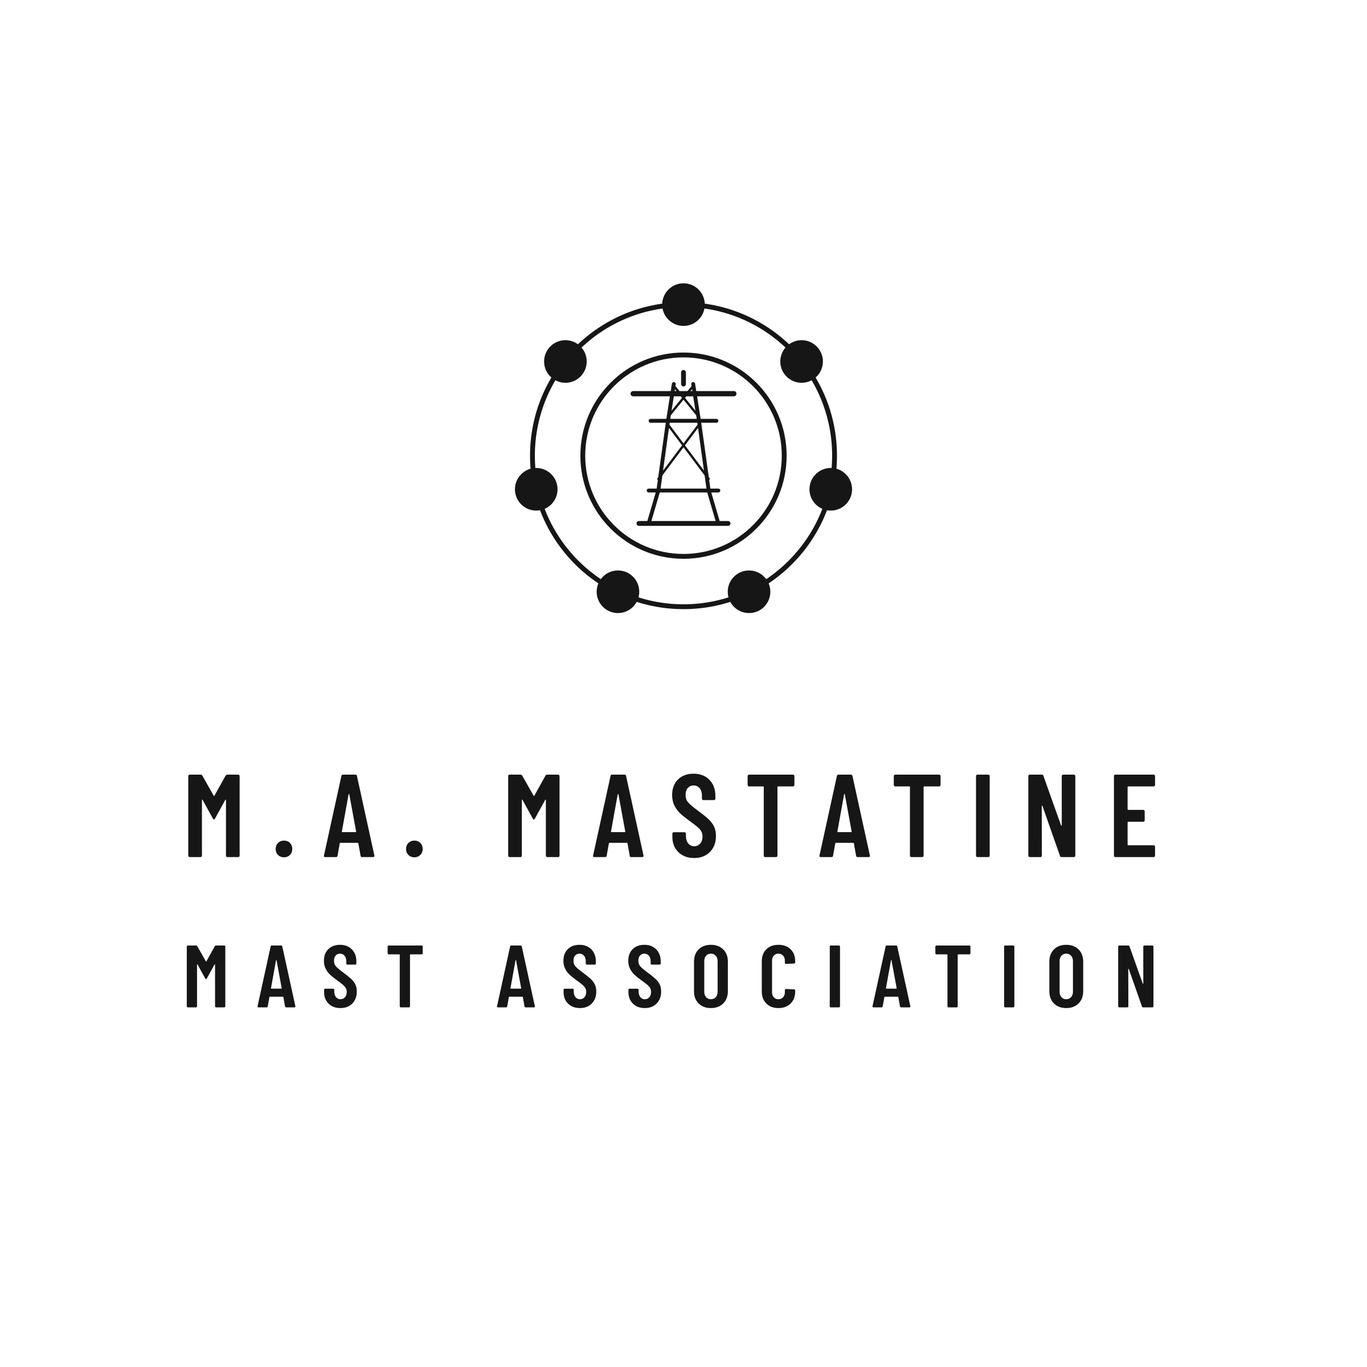
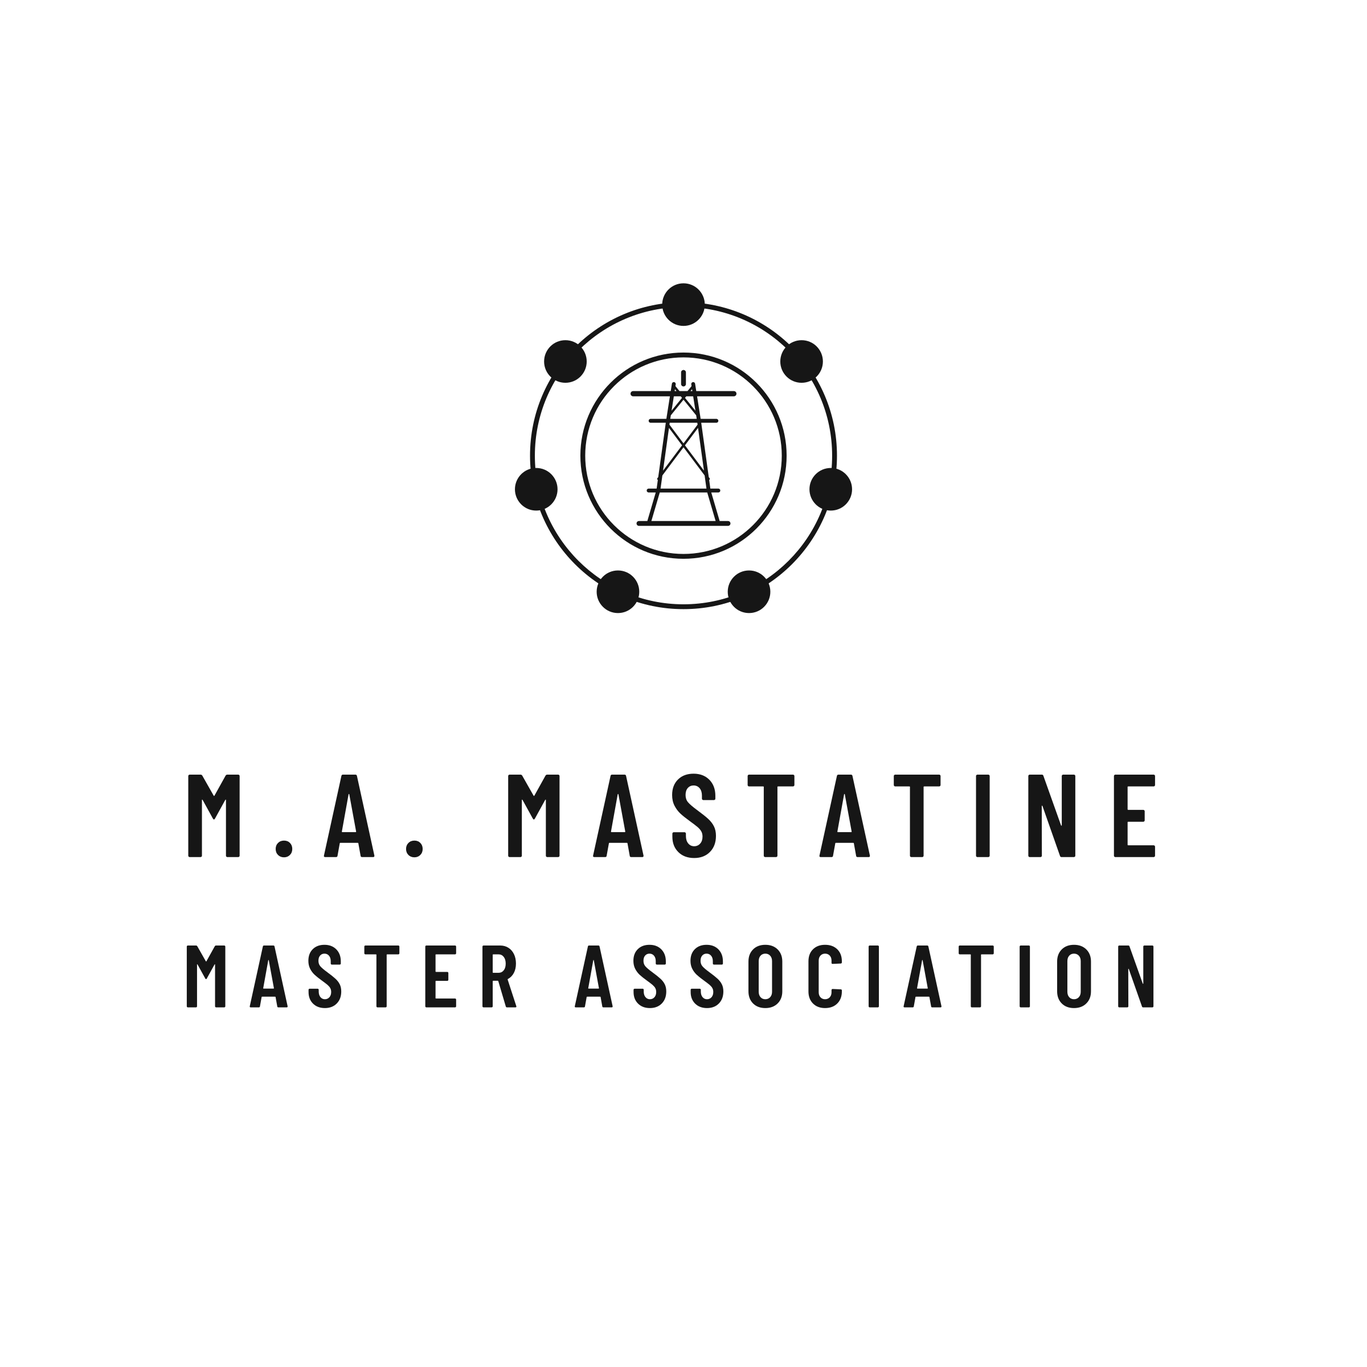
feat: Master Association rebrand of copy, history and wearable artwork
Updates the brand guide, site copy and history, pages, navigation styling, wearable artwork and the masts page.

Changed region(s): [[0.1875, 0.6875, 0.8125, 0.75]]

diff --git a/src/app/(pages)/about/page.tsx b/src/app/(pages)/about/page.tsx
@@ -5,7 +5,7 @@ import { ASTATINE_URL } from "@/content/site";
 
 export const metadata: Metadata = {
   title: "About & disclaimer",
-  description: "What M.A. Mastatine is, and what it is not: a parody, not affiliated with S.A. Astatine or the University of Twente.",
+  description: "About M.A. Mastatine, the Master Association in Maastricht for masts, towers and pylons: who we are, how it works and how to take part.",
 };
 
 export const instant = false;
@@ -15,44 +15,17 @@ export default function AboutPage() {
     <>
       <PageHeader
         title="An association for things that are tall"
-        intro="Mastatine is a joke that got out of hand. We collect masts, towers and pylons, and we let people vote on them."
+        intro="Founded in Maastricht in 2006, M.A. Mastatine brings students together around masts, towers and pylons."
       />
 
       <div className="container-prose prose-lite">
-        <h2>What is Mastatine?</h2>
+        <h2>Who we are</h2>
         <p>
-          The name is a pun: a <em>mast</em> plus an <em>-atine</em> ending, in the style of the chemical elements. That is where the
-          resemblance to any real organisation ends. We have no programme and no curriculum. We have a gallery of masts, a
-          leaderboard, a Mast of the Month, a free (and entirely optional) membership, activities, a newsletter and a Minecraft
-          server. We were released during our 4th lustrum, and our first activity takes place on 12 November.
+          Mastatine started in 2006 in a rented room in Wyck, where a few students could not stop arguing about the transmission mast
+          outside their window. The name combines <em>mast</em> with an <em>-atine</em> ending, in the style of the chemical elements.
+          Twenty years on we keep a register of masts, a leaderboard, a Mast of the Month, activities, a newsletter and a Minecraft
+          server. Membership is free and open to every student in Maastricht. Read the full <Link href="/history">history</Link>.
         </p>
-
-        <section id="disclaimer" className="card not-prose scroll-mt-28 !border-accent/40 p-6 sm:p-8" aria-labelledby="disclaimer-title">
-          <h2 id="disclaimer-title" className="!mt-0 text-2xl font-bold">
-            Disclaimer: we are a parody
-          </h2>
-          <ul className="mt-4 list-disc space-y-2.5 pl-5 text-base">
-            <li>
-              <strong>M.A. Mastatine is not affiliated with, endorsed by or connected to S.A. Astatine</strong>, the study association of
-              the University of Twente, or to the University of Twente itself.
-            </li>
-            <li>We are not a study association. Nothing here grants study credits, discounts or any academic standing.</li>
-            <li>
-              Our name is a pun. Our logo and layout are our own and are not taken from anyone else. The one thing we borrow is the
-              lettering: our stickers and merch are set in the Astatine typeface, made for S.A. Astatine, which we use with their permission.
-            </li>
-            <li>We do not use, copy or display the real association’s data, calendar, logo or content.</li>
-            <li>Statements on this site are satire. Please do not mistake them for statements of fact, or of anyone else.</li>
-          </ul>
-          <p className="mt-5 text-sm text-muted">
-            Looking for the real study association? Visit{" "}
-            <a className="font-semibold text-accent-text underline underline-offset-2" href={ASTATINE_URL} target="_blank" rel="noopener noreferrer">
-              astatine.utwente.nl
-            </a>
-            . If you represent them and have any concern about this site, please <Link className="font-semibold text-accent-text underline underline-offset-2" href="/contact">contact us</Link>{" "}
-            and we will respond promptly.
-          </p>
-        </section>
 
         <h2>How it works</h2>
         <ul>
@@ -82,6 +55,14 @@ export default function AboutPage() {
         <p>
           Submissions are filtered for offensive language, and admins can edit or remove anything. If a photo shows you, or something
           that should not be public, tell us and we will take it down.
+        </p>
+
+        <p id="disclaimer" className="scroll-mt-28 text-xs text-muted">
+          M.A. Mastatine is an independent student initiative and is not affiliated with, endorsed by or connected to Universiteit
+          Maastricht or to S.A. Astatine (University of Twente,{" "}
+          <a className="underline underline-offset-2" href={ASTATINE_URL} target="_blank" rel="noopener noreferrer">astatine.utwente.nl</a>
+          ). Our stickers and merch are set in the Astatine typeface, used with their permission. Some content on this site is
+          humorous and fictional. Concerns? <Link className="underline underline-offset-2" href="/contact">Contact us</Link>.
         </p>
       </div>
     </>

diff --git a/src/content/site.ts b/src/content/site.ts
@@ -1,7 +1,6 @@
 /**
- * Editorial content for the static pages. Everything here is parody copy written as a starting
- * point: edit freely. Facts marked PLACEHOLDER (dates, roles) are invented for comedic effect and
- * should be replaced with the truth. No real people are named on purpose.
+ * Editorial content for the static pages. The history and roles are fictional starting copy:
+ * edit freely. No real people are named on purpose.
  */
 
 export const ASTATINE_URL = "https://astatine.utwente.nl";
@@ -25,24 +24,26 @@ export interface Milestone {
   text: string;
 }
 
-/** What we have actually done so far. */
+/** Our story so far. */
 export const HISTORY: Milestone[] = [
-  { year: "Before 2025", title: "Lost to history", text: "Everything before this was lost. Nobody wrote it down, because we were far too busy looking at masts. Any resemblance to earlier events is purely coincidental." },
-  { year: "2025–26", title: "Released during the 4th lustrum", text: "Mastatine is released into the world during the 4th lustrum, twenty years of masts, celebrated under the theme Masten." },
-  { year: "2026", title: "A new website and a Minecraft server", text: "Faster, clearer, with accounts, voting, a newsletter and a server at aaa.mastatine.nl. Still very much a joke." },
-  { year: "12 November 2026", title: "The first activity", text: "Our first activity takes place on the 12th of November." },
+  { year: "2006", title: "Founded in Wyck", text: "A handful of Maastricht students who kept debating the transmission mast visible from their rented room in Wyck, a short walk from the Maas, found the association. The first board meeting is held over a single plate of bitterballen." },
+  { year: "2011", title: "The first excursion", text: "For the 1st lustrum, the association takes its first field trip: an afternoon on the Sint Pietersberg, photographing the masts of the Maastricht skyline from the ground. The mast register, a shared photo album, is started that day." },
+  { year: "2016", title: "An international community", text: "As the student body grows more international, Mastatine switches its meetings and newsletter to English and welcomes members from well beyond the Netherlands." },
+  { year: "2021", title: "The register goes online", text: "The mast register moves from a shared folder to the website, with ratings, a Mast of the Month and a growing gallery of towers and pylons." },
+  { year: "2025–26", title: "The 4th lustrum", text: "Twenty years of Mastatine, celebrated under the theme Masten with a year of activities, a new website and a Minecraft server at aaa.mastatine.nl." },
+  { year: "12 November 2026", title: "First activity on the new platform", text: "Activities, sign-ups and the newsletter now all run from one place, starting with our activity on the 12th of November." },
 ];
 
 export const MEMBERSHIP_PERKS: { title: string; text: string }[] = [
   { title: "Vote and submit", text: "No account needed. Rate any mast up or down, or add your own with a photo." },
   { title: "A free account", text: "Sign in with your email, no password. Manage your details and your newsletter preference in one place." },
-  { title: "The quarterly newsletter", text: "About four emails a year: the best masts, the news, and the occasional bad pun." },
+  { title: "The quarterly newsletter", text: "About four emails a year: the best masts, the news and what is coming up." },
   { title: "Merch", text: "Wear the tallest opinions in the room. The shop is run by our print partner." },
 ];
 
 export const FAQ: { q: string; a: string }[] = [
-  { q: "Is this the real study association?", a: "No. M.A. Mastatine is a parody. The real association is S.A. Astatine of the University of Twente. We are not connected to them or to the university." },
-  { q: "Do I get study credits?", a: "No credits, no discounts and no academic standing of any kind. Only the admiration of fellow mast enthusiasts." },
+  { q: "Who can join?", a: "Any student in Maastricht, and anyone else with an interest in masts, towers and the built environment. Membership is open to all." },
+  { q: "Do I get study credits?", a: "No. Mastatine is a student association, not a course, so there are no credits, only a community and a good excuse to look up." },
   { q: "Does membership cost anything?", a: "No. Everything on this site is free." },
   { q: "Can I delete my account?", a: "Yes, from your account page, at any time. You can also unsubscribe from the newsletter with one click." },
 ];

diff --git a/src/classic/AppChrome.tsx b/src/classic/AppChrome.tsx
@@ -31,6 +31,12 @@ const YouIcon = (
   </svg>
 );
 
+const MastsIcon = (
+  <svg {...iconProps}>
+    <path d="M12 2v20M8 22h8M9 7h6M8 12h8M7 17h10" />
+  </svg>
+);
+
 interface Tab {
   label: string;
   href: string;
@@ -41,6 +47,7 @@ interface Tab {
 const TABS: Tab[] = [
   { label: "Today", href: TODAY_HREF, icon: TodayIcon, isCurrent: (p) => p === "/" || p === "/app" },
   { label: "Activities", href: "/mastapps/activities", icon: Icons.activities, isCurrent: (p) => under(p, "/mastapps/activities") },
+  { label: "Masts", href: "/masts", icon: MastsIcon, isCurrent: (p) => under(p, "/masts") },
   { label: "Apps", href: "/mastapps", icon: Icons.dashboard, isCurrent: (p) => (under(p, "/mastapps") && !under(p, "/mastapps/activities")) || under(p, "/admin") },
   { label: "You", href: "/account", icon: YouIcon, isCurrent: (p) => under(p, "/account") },
 ];
@@ -52,12 +59,13 @@ const SECTION_TITLES: [string, string][] = [
   ["/terms", "Site rules"], ["/newsletter", "Newsletter"], ["/login", "Sign in"], ["/welcome", "Welcome"],
 ];
 
-const ROOTS = new Set(["/", "/app", "/mastapps", "/mastapps/activities", "/account"]);
+const ROOTS = new Set(["/", "/app", "/masts", "/mastapps", "/mastapps/activities", "/account"]);
 
 /** The section the current page belongs to: the name in the top bar. Signed out, Today is just the way in. */
 function titleFor(pathname: string, signedIn: boolean): string {
   if (pathname === "/" || pathname === "/app") return signedIn ? "Today" : "M.A. Mastatine";
   if (under(pathname, "/mastapps/activities")) return "Activities";
+  if (under(pathname, "/masts")) return "Masts";
   if (pathname === "/mastapps") return "Apps";
   if (under(pathname, "/admin")) return "Admin";
   if (under(pathname, "/account")) return "You";
@@ -107,7 +115,7 @@ export function AppTopBar() {
   );
 }
 
-/** Bottom navigation bar: Today, Activities, Apps, You. Only for people who are signed in (the others have nothing to navigate). */
+/** Bottom navigation bar: Today, Activities, Masts, Apps, You. Only for people who are signed in (the others have nothing to navigate). */
 export function AppTabBar() {
   const pathname = usePathname();
   const { signedIn } = useAccountState();

diff --git a/src/app/(pages)/masts/page.tsx b/src/app/(pages)/masts/page.tsx
@@ -1,0 +1,41 @@
+import type { Metadata } from "next";
+import { describeDbError } from "@/lib/db";
+import { PAGE_SIZE, listTowers, parseQuery, type TowerPage } from "@/lib/towers";
+import TowerGrid from "@/classic/TowerGrid";
+import SubmitModal from "@/classic/SubmitModal";
+
+export const metadata: Metadata = { title: "Masts", description: "Browse and rate the finest masts." };
+
+export const instant = false;
+
+async function getFirstPage(q: string): Promise<TowerPage> {
+  try {
+    return await listTowers({ sort: "rating", q, offset: 0, limit: PAGE_SIZE });
+  } catch (error) {
+    console.error(`Failed to load towers: ${describeDbError(error)}`);
+    return { towers: [], hasMore: false };
+  }
+}
+
+/** The masts to browse and rate. The website shows them on its homepage; the installed app has no homepage, so they live here. */
+export default async function MastsPage(props: { searchParams?: Promise<{ [key: string]: string | string[] | undefined }> }) {
+  const q = parseQuery((await props.searchParams)?.s);
+  const firstPage = await getFirstPage(q);
+
+  return (
+    <section id="lp-posts">
+      <div className="lp-posts-inside">
+        <div id="towers" style={{ scrollMarginTop: "2rem" }} />
+        <TowerGrid initialPage={firstPage} initialQuery={q}>
+          <article className="post hentry news-card">
+            <div className="news-card__top">
+              <span className="news-card__label">Masts</span>
+            </div>
+            <p style={{ flex: 1, marginBottom: "0.5rem" }}>Rate the masts, or add one of your own.</p>
+            <SubmitModal />
+          </article>
+        </TowerGrid>
+      </div>
+    </section>
+  );
+}

diff --git a/src/app/page.tsx b/src/app/page.tsx
@@ -94,17 +94,16 @@ export default async function HomePage(
           <div className="lp-text-content">
             <h5 className="wp-block-heading has-text-align-center">
               <strong>
-                M.A. Mastatine is the mast association for students of Advanced Mastology
-                and Nanomastology, and co-association of Mastotics at the University of Maste.{" "}
+                M.A. Mastatine is the Master Association in Maastricht for students interested in masts, towers
+                and the infrastructure behind modern communication.{" "}
                 <span className="lp-more">
-                  We are an international, non-profit association that supports students (and staff)
-                  of Advanced Mastology, Nanomastology and Mastotics in building a community,
-                  creating personal development opportunities, and evaluating the curriculum. We do
-                  this through masting.
+                  We are an international, non-profit student association, founded in Wyck in 2006. We
+                  help students build a community, grow personally and professionally, and get to know
+                  the landscape around them, from the Sint Pietersberg to the Maas, one mast at a time.
                 </span>
               </strong>
             </h5>
-            <p className="has-text-align-center text-center">Feel free to mast around!</p>
+            <p className="has-text-align-center text-center">Welcome. Have a look around.</p>
           </div>
         </div>
       </section>}

diff --git a/src/classic/Colophon.tsx b/src/classic/Colophon.tsx
@@ -16,7 +16,7 @@ export default function Colophon() {
                 { label: "Privacy Policy", href: "/privacy" },
                 { label: "Site rules", href: "/terms" },
                 { label: "Contact", href: "/contact" },
-                { label: "About & Disclaimer", href: "/about#disclaimer" },
+                { label: "About", href: "/about" },
               ].map(({ label, href }) => (
                 <li key={label} style={{ marginBottom: "0.2em" }}>
                   <a href={href}>{label}</a>
@@ -36,10 +36,10 @@ export default function Colophon() {
               M.A. Mastatine
             </p>
             <p style={{ fontSize: "0.95em", color: "var(--text-mid)", marginTop: "0.4em" }}>
-              Not affiliated with S.A. Astatine or the University of Twente.
+              Master Association · Maastricht
             </p>
-            <p style={{ fontSize: "0.85em", color: "var(--text-mid)", marginTop: "0.4em" }}>
-              Stickers and merch are set in the Astatine typeface, made for S.A. Astatine and used with their permission.
+            <p style={{ fontSize: "0.7em", color: "var(--text-mid)", opacity: 0.75, marginTop: "0.4em" }}>
+              <Link href="/about#disclaimer" style={{ color: "inherit" }}>Independent initiative, not affiliated with Universiteit Maastricht or S.A. Astatine.</Link>
             </p>
           </div>
         </section>

diff --git a/src/app/navigation.css b/src/app/navigation.css
@@ -37,7 +37,7 @@
   }
 
   /* ── Navigation bar (M3 Expressive flexible bar): icon in a pill indicator, label below; side by side on tablets ── */
-  .tabbar { position: fixed; right: 0; bottom: 0; left: 0; z-index: 35; display: grid; grid-template-columns: repeat(4, minmax(0, 1fr)); padding: 0.4rem 0.25rem calc(0.4rem + env(safe-area-inset-bottom)); background: var(--md-surface-container); box-shadow: 0 -1px 3px rgb(34 26 21 / 0.08); }
+  .tabbar { position: fixed; right: 0; bottom: 0; left: 0; z-index: 35; display: grid; grid-template-columns: repeat(5, minmax(0, 1fr)); padding: 0.4rem 0.25rem calc(0.4rem + env(safe-area-inset-bottom)); background: var(--md-surface-container); box-shadow: 0 -1px 3px rgb(34 26 21 / 0.08); }
   .tabbar__tab { display: flex; min-width: 0; flex-direction: column; align-items: center; gap: 0.25rem; padding: 0.15rem 0; color: var(--md-on-surface-variant); font-size: 0.75rem; font-weight: 800; line-height: 1.15; }
   .tabbar__icon { position: relative; display: grid; width: 3.5rem; height: 2rem; place-items: center; }
   .tabbar__icon::before { content: ""; position: absolute; inset: 0; border-radius: var(--shape-full); background: var(--md-secondary-container); opacity: 0; scale: 0.4 1; transition: scale var(--spring-fast-ms) var(--spring-fast), opacity 0.15s var(--ease-emphasized); }

diff --git a/src/app/(pages)/welcome/page.tsx b/src/app/(pages)/welcome/page.tsx
@@ -31,7 +31,7 @@ export default async function WelcomePage(props: { searchParams: Promise<{ next?
     <div className="container-prose flex justify-center pb-10 pt-20 sm:py-24">
       <div className="w-full max-w-md">
         <h1 className="text-4xl font-extrabold sm:text-5xl">You are signed in</h1>
-        <p className="mt-3 text-muted">One question before you go: would you like the newsletter? The best masts, the news, and the occasional bad pun.</p>
+        <p className="mt-3 text-muted">One question before you go: would you like the newsletter? The best masts, the news and what is coming up.</p>
         <form action={answerNewsletterPrompt} className="card mt-8 space-y-3 p-6 sm:p-8">
           <input type="hidden" name="next" value={next} />
           <button type="submit" name="answer" value="yes" className="btn btn-primary w-full py-3">Yes, send me the newsletter</button>

diff --git a/src/app/layout.tsx b/src/app/layout.tsx
@@ -28,11 +28,11 @@ const lato = Lato({
 export const metadata: Metadata = {
   metadataBase: new URL(siteUrl()),
   title: {
-    default: "M.A. Mastatine | The Mast Association for mastende engineers",
+    default: "M.A. Mastatine | Master Association in Maastricht",
     template: "%s · M.A. Mastatine",
   },
   description:
-    "M.A. Mastatine is the mast association for Advanced Mast Technology. Submit your favourite mast and vote on the most impressive electromagnetic structures in the Netherlands.",
+    "M.A. Mastatine is the Master Association in Maastricht for masts, towers and pylons. Submit your favourite mast, vote on the most impressive structures in the Netherlands and join our activities.",
   applicationName: "M.A. Mastatine",
   icons: { icon: "/favicon.svg", apple: "/icons/apple-touch-icon.png" },
   // Installed on iOS: open full screen, under a short name.

diff --git a/src/app/(pages)/contact/page.tsx b/src/app/(pages)/contact/page.tsx
@@ -12,7 +12,7 @@ export const metadata: Metadata = {
 const TOPICS = [
   { title: "Remove a photo or submission", text: "If something shows you, or should not be public, tell us which mast and we will take it down." },
   { title: "Delete your data", text: "Ask us to delete your account, newsletter subscription or anything else we hold about you." },
-  { title: "Concerns about this site", text: "If you represent another organisation and think this parody goes too far, write to us. We respond promptly and in good faith." },
+  { title: "Concerns about this site", text: "If you represent another organisation and have a concern about this site, write to us. We respond promptly and in good faith." },
   { title: "Everything else", text: "Mast tips, ideas for committees, or press." },
 ];
 

diff --git a/src/app/(pages)/history/page.tsx b/src/app/(pages)/history/page.tsx
@@ -4,7 +4,7 @@ import { HISTORY } from "@/content/site";
 
 export const metadata: Metadata = {
   title: "History",
-  description: "A short and slightly embellished history of M.A. Mastatine.",
+  description: "The history of M.A. Mastatine, from a rented room in Wyck in 2006 to our 4th lustrum.",
 };
 
 export const instant = false;
@@ -14,7 +14,7 @@ export default function HistoryPage() {
     <>
       <PageHeader
         title="History"
-        intro="A short, slightly embellished account of how we got here. Historians are welcome to correct us."
+        intro="Twenty years of Mastatine, from a rented room in Wyck to our 4th lustrum."
       />
       <div className="container-prose">
         <ol className="relative space-y-10 border-l border-line pl-8">

diff --git a/src/app/(pages)/privacy/page.tsx b/src/app/(pages)/privacy/page.tsx
@@ -128,10 +128,9 @@ export default function PrivacyPage() {
           complain to the Dutch Data Protection Authority (Autoriteit Persoonsgegevens).
         </p>
 
-        <h2>This is a parody</h2>
-        <p>
-          M.A. Mastatine is a parody and is not affiliated with S.A. Astatine or the University of Twente. See the{" "}
-          <Link href="/about#disclaimer">disclaimer</Link> and our <Link href="/terms">site rules</Link>.
+        <p className="text-sm text-muted">
+          M.A. Mastatine is an independent student initiative and is not affiliated with Universiteit Maastricht or S.A. Astatine. See the{" "}
+          <Link href="/about#disclaimer">notice</Link> and our <Link href="/terms">site rules</Link>.
         </p>
       </div>
     </>
